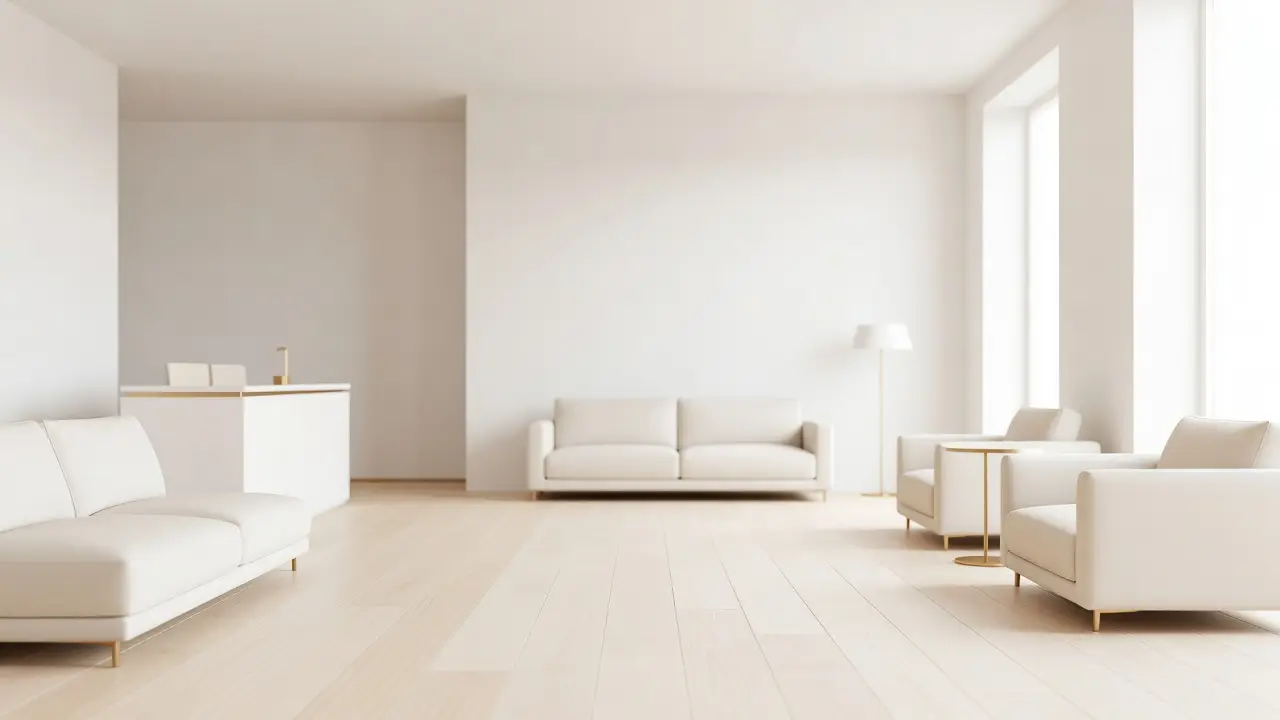
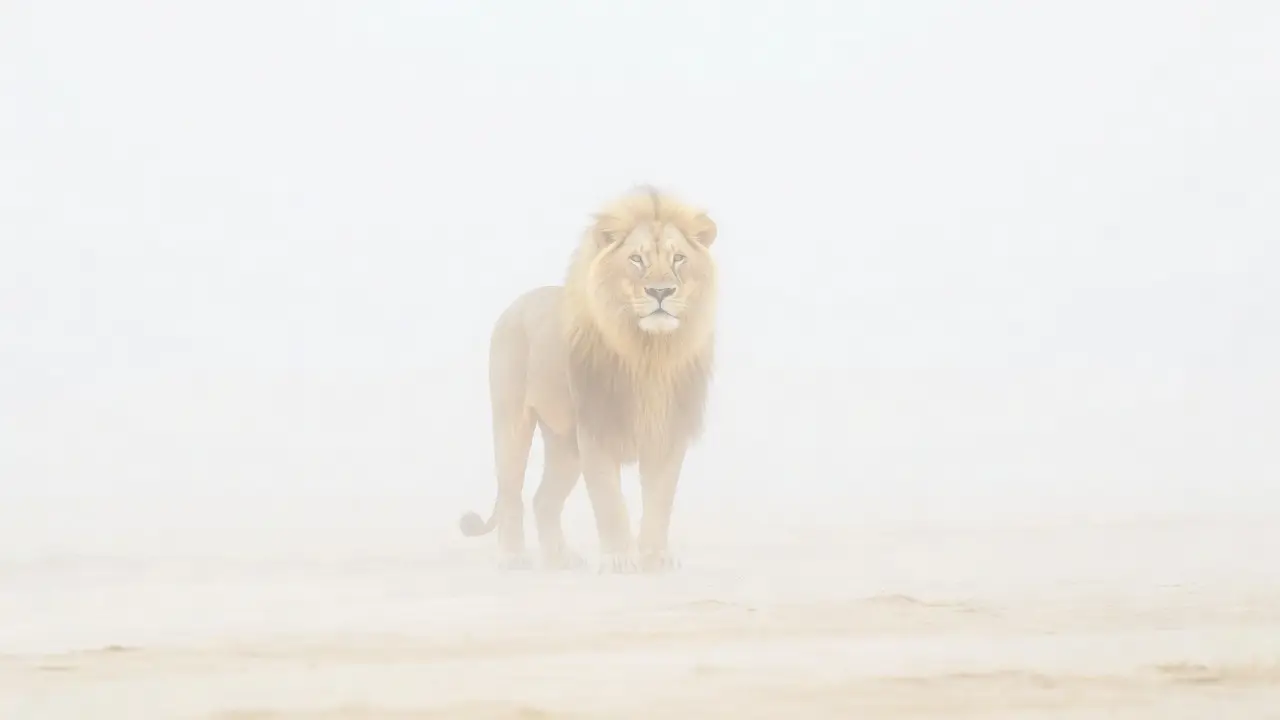
Backdrop: the lion, and fix the hero bleeding into it
Two things.

The header. The home hero photograph is masked to transparent at its foot so it
dissolves into the page. Once a backdrop image existed behind the page, it
dissolved into THAT instead: a white sofa came through the couple's bodies, two
photographs overlapping. .hero2 now carries its own cream ground, so the mask
fades the photo into paper and only paper.

The image. Swapped the waiting room for a lion in bright haze, which is the
brand mark's subject and now the page behind it. It had to be generated
high-key for the same reason as before: the existing lion mark is a dark
portrait, darkest pixel near black, and dark text cannot sit on that at any
visible strength. This one bottoms out at rgb(221,201,174).

Veil 0.28 -> 0.18, image showing at 82%. Measured against its darkest region
across every console view: worst text pair 8.93:1, against 4.5:1.

Alternates in docs/ now carry their darkest pixel, which is the only number
that decides whether an image can be used at all.

diff --git a/scripts/backdrop-generate.js b/scripts/backdrop-generate.js
@@ -16,14 +16,14 @@ function xaiKey() {
 /* Written for a background BEHIND dense working UI: calm, soft, low contrast,
    nothing sharp competing with tables of patient names. */
 const PROMPTS = [
-  { name: "L1-clinic-highkey",
-    prompt: "High-key architectural photograph of a bright modern men's health clinic interior, flooded with soft diffused daylight, pale bleached oak, warm white walls, cream upholstery, a hint of brushed brass, everything light and airy with NO dark areas, NO deep shadows, NO black, uniformly bright and overexposed in the highlights, very low contrast, soft focus throughout, palette of white, cream, pale sand and light warm grey, no people, no text, no watermark, wide 16:9" },
+  { name: "lion-1-haze",
+    prompt: "High-key fine-art photograph of a majestic male lion with a full mane, standing in bright white morning haze, heavily overexposed and washed out so the whole frame is pale, the lion rendered in soft faint warm gold and cream tones as if seen through bright fog, NO dark areas, NO black, NO deep shadows, extremely low contrast, ethereal and airy, palette of white, cream, pale sand and faint warm gold, no text, no watermark, wide 16:9" },
 
-  { name: "L2-linen-highkey",
-    prompt: "High-key macro photograph of cream linen fabric and pale warm stone with a faint brushed gold thread, extremely soft focus, flooded with bright diffused light, entirely light and airy, NO dark areas, NO shadows, NO black, very low contrast, minimal and calm, palette of white, cream, oatmeal and the faintest warm gold, no text, no watermark, wide 16:9" },
+  { name: "lion-2-studio",
+    prompt: "High-key studio photograph of a male lion with a full mane in profile against a pure white seamless background, blown-out high-key lighting from all sides, the lion pale golden and softly lit with NO dark shadows and NO black anywhere, very low contrast, minimal and clean, palette of white, cream and pale gold, no text, no watermark, wide 16:9" },
 
-  { name: "L3-couple-highkey",
-    prompt: "High-key lifestyle photograph, a man in his late forties and his wife walking together outdoors in bright hazy morning sunlight, seen small and far away in the lower right, heavily overexposed and washed out, the frame dominated by bright white haze and pale sky, NO dark areas, NO deep shadows, very low contrast, dreamlike and airy, palette of white, cream and pale gold, no text, no watermark, wide 16:9" }
+  { name: "lion-3-faint",
+    prompt: "Extremely faint high-key photograph of a male lion's head and mane emerging from bright cream mist, barely visible, like a watermark or a memory, the whole image washed out to near-white with only the softest warm gold suggestion of the mane, NO dark areas, NO black, NO shadows, almost no contrast, calm and minimal, palette of white, cream and the faintest gold, no text, no watermark, wide 16:9" }
 ];
 
 (async () => {

diff --git a/public/app/styles.css b/public/app/styles.css
@@ -293,6 +293,13 @@ main {
 .hero2 {
   position: relative;
   isolation: isolate;
+  /* The photograph is masked to transparent at its foot. Without a ground of
+     its own it dissolves into whatever is behind the page, and once a backdrop
+     image existed that meant the hero faded into a DIFFERENT photograph: a
+     sofa coming through the couple. It fades into paper, and only paper.
+     Inside this stacking context the background paints first and ::before
+     paints on top of it, which is exactly the order needed. */
+  background: var(--cream);
   margin: -22px calc(var(--pad) * -1) 10px;
   height: min(74svh, 600px);
   display: flex; flex-direction: column; justify-content: flex-end;
@@ -980,7 +987,7 @@ main {
    The home hero photograph sits on top of this and is unaffected.
    ========================================================================== */
 
-:root { --backdrop-veil: 0.28; }
+:root { --backdrop-veil: 0.18; }   /* the lion bottoms out at rgb(221,201,174) */
 
 .backdrop {
   position: fixed; inset: 0; z-index: 0; pointer-events: none;

diff --git a/public/console/console.css b/public/console/console.css
@@ -673,7 +673,7 @@ body {
      bottoms out at rgb(162,144,128), which navy text clears at 4.5:1 even with
      NO veil at all. A photograph with real shadows in it caps out around 0.95
      no matter what you do, which is why this one is deliberately high-key. */
-  --backdrop-veil: 0.28;
+  --backdrop-veil: 0.18;
   --side-w: 236px;
 }
 

diff --git a/public/app/sw.js b/public/app/sw.js
@@ -6,7 +6,7 @@
    correct matters more than shaving milliseconds, and the cache is still there
    as a fallback when the phone is offline. */
 
-var CACHE = "heartland-v14";
+var CACHE = "heartland-v15";
 
 var SHELL = [
   "./",

diff --git a/docs/BACKDROP.md b/docs/BACKDROP.md
@@ -12,15 +12,28 @@ Copy any of the alternates over it and redeploy:
     cp docs/backdrop-alt-abstract.webp public/console/img/backdrop.webp
     vercel deploy --prod --yes
 
-| file | what it is |
-|---|---|
-| *(installed)* | bright clinic waiting room, high-key |
-| `backdrop-alt-linen.webp` | cream linen and a gold thread, high-key. Calmest |
-| `backdrop-alt-couple-light.webp` | couple outdoors, washed out, high-key |
-| `backdrop-alt-clinic-dark.webp` | clinic interior, oak and navy. **Too dark to show above 3%** |
-| `backdrop-alt-abstract.webp` | brass and cream stone. **Too dark to show above 4%** |
-| `backdrop-alt-couple.webp` | couple at dusk. **Too dark to show above 3%** |
-| `backdrop-alt-road.webp` | runner at dawn. **Too dark to show above 3%** |
+| file | what it is | darkest pixel |
+|---|---|---|
+| *(installed)* | **lion in bright haze** | rgb(221,201,174) |
+| `backdrop-alt-lion-faint.webp` | lion, barely there | rgb(230,214,187) |
+| `backdrop-alt-lion-studio.webp` | lion on white, more defined | rgb(162,135,105) |
+| `backdrop-alt-waitingroom.webp` | bright clinic waiting room | rgb(162,144,128) |
+| `backdrop-alt-linen.webp` | cream linen and a gold thread | rgb(205,201,195) |
+| `backdrop-alt-couple-light.webp` | couple outdoors, washed out | rgb(210,202,194) |
+| `backdrop-alt-clinic-dark.webp` | clinic, oak and navy. **Unusable**, caps at 3% | rgb(19,18,23) |
+| `backdrop-alt-abstract.webp` | brass and stone. **Unusable**, caps at 4% | rgb(85,60,30) |
+| `backdrop-alt-couple.webp` | couple at dusk. **Unusable**, caps at 3% | rgb(32,24,20) |
+| `backdrop-alt-road.webp` | runner at dawn. **Unusable**, caps at 3% | rgb(58,48,40) |
+
+Anything whose darkest pixel is below about rgb(160,140,120) cannot be shown
+above a few percent without dark text failing on it. That is the whole test.
+
+## One thing to watch on the app
+
+The home hero photograph is masked to transparent at its foot. It needs its own
+opaque ground (`.hero2 { background: var(--cream) }`) or it dissolves into the
+backdrop instead of into paper, and you get two photographs bleeding through
+each other. That was a real bug: a sofa came through the couple.
 
 ## Why the image is high-key
 
@@ -45,8 +58,8 @@ a known white surface, grey is still correct and stays.
 stronger; measure text contrast afterwards, because this is working UI and the
 type sits directly on it.
 
-Measured at 0.28 — the image showing at 72% — against the DARKEST pixel in it,
-across every console view: worst pair **6.03:1**, against a 4.5:1 requirement.
+Measured at 0.18 — the image showing at 82% — against the DARKEST pixel in it,
+across every console view: worst pair **8.93:1**, against a 4.5:1 requirement.
 
 ## Making new ones
 
